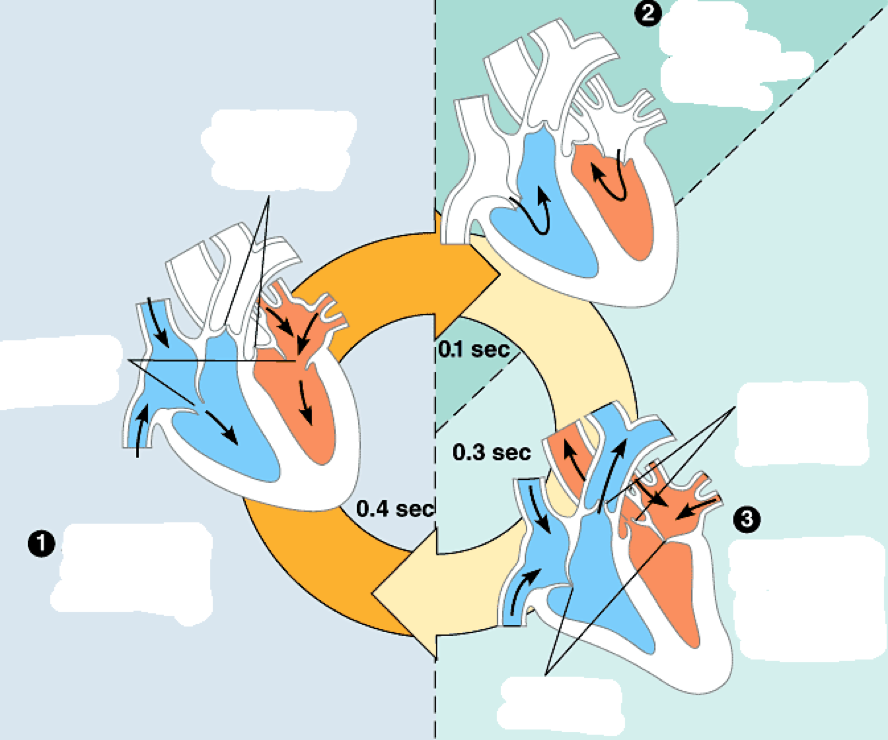
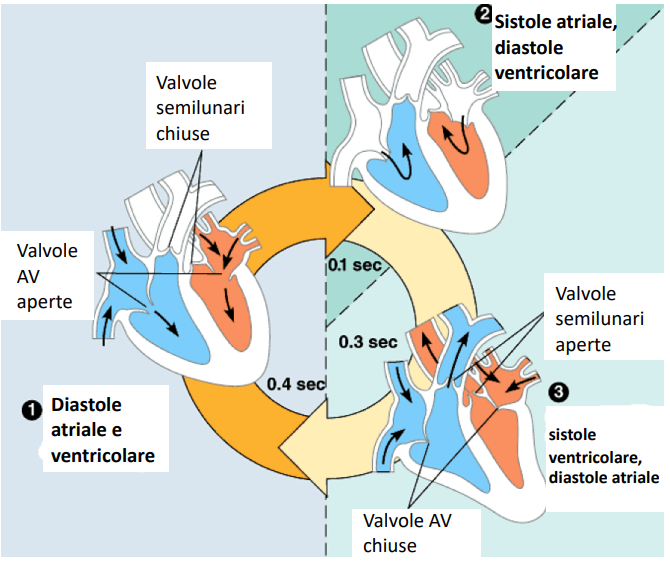
ciclo cardiaco

Changed region(s): [[0.0, 0.0, 1.0, 1.0], [0.2985, 0.7234, 0.3284, 0.7837], [0.7164, 0.3918, 0.7463, 0.422]]

diff --git a/Anatomia e Fisiologia/appunti.md b/Anatomia e Fisiologia/appunti.md
@@ -961,8 +961,28 @@ Non indicato nell'immagine, l'arteria destra polmonare e l'arteria sinistra polm
         3. arteria succlavia sinistra
     - **Aorta discendente**:
 
-### Il circolo cardiaco
+### Il ciclo cardiaco
 <img src="imm/pagina24_img1.png" width="300" style="float: left; margin-right: 30px;">
-- Battito cardiaco = cotrazione ritmica del cuore
-- a riposo il numero di battiti cardiaci al minuto sono ~70
 
+- Con **ciclo cardiaco** si intende la sequenza di eventi in un battito cardiaco
+
+- Battito cardiaco = cotrazione ritmica del cuore
+- A riposo il numero di battiti cardiaci al minuto sono ~70 (frequenza cardiaca)
+<div style="clear: both;"></div>
+
+
+
+- Ciclo cardiaco composto da ==3 fasi==:
+    1. Fase 1 &rarr; **Diastole totale**: è la piu lunga (0.4 sec). Le 4 camere sono in fase di rilassamento. Quindi sia atri che ventricoli si rilassano. Distinguiamo poi diastole **atriale** (atri rilassati) e diastole **ventricolare** (ventricoli sono rilassati)
+    Durante questa prima fase:
+        - Il sangue torna all'atrio destro tramite le vene cave (superiore e inferiore)
+        - Il sangue giunge all'atrio sinistro attraverso le 4 vene polmonari
+        
+        Si assiste poi al riempimento <font color="red">PASSIVO</font> dei ventricoli per forza di gravità (ventricoli sotto gli atri) &rarr; le valvole AV sono aperte
+        Le valvole semilunari ("l'uscita") rimangono chiuse, per evitare che il sangue troni indietro
+    2. Fase 2 &rarr; **Sistole atriale** e **diastole ventricolare**: è la piu breve (0.1s)Riempimento <font color="red">ATTIVO</font> dei ventricoli. Con questa contrazione degli atri si contraggono e si assicurano di trasferire tutto il sangue nei ventricoli (rilassati).
+    Come nella diastole, le valvole semilunari sono chiuse, e le valvole AV sono aperte
+    3. Fase 3 &rarr; **Sistole ventricolare** e **diastole atriale**: (0.3 sec): I ventricoli si contraggono, immettendo il sangue nelle rispettive circolazioni. Gli atri sono invece rilassate e cominciano a riempirsi nuovamente di sangue
+    In questa fase le valvole AV sono chiuse (per evitare che il sangue torni indietro), mentre le semilunari sono aperte
+
+Le 4 valvole cardiache si assicurano che il sangue segua sempre il tragitto corretto (tragitto unidirezionale)
